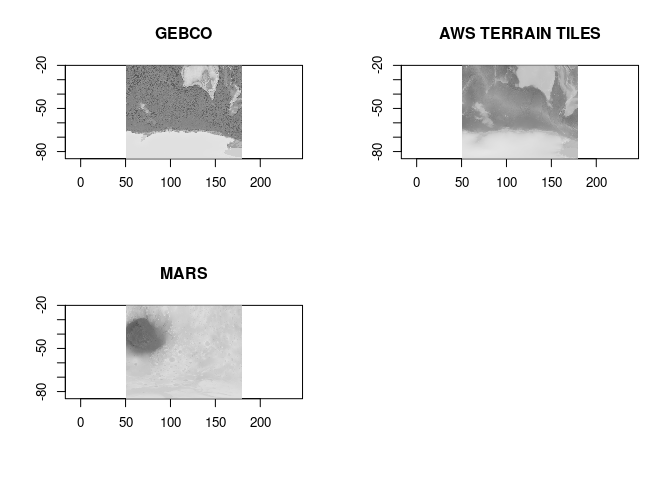
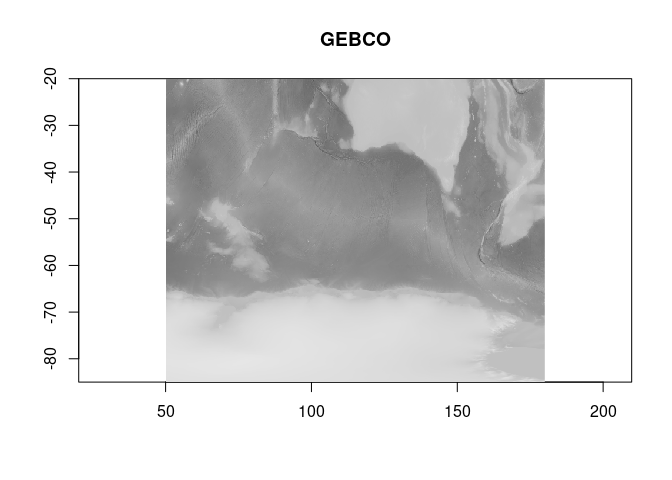
consolidate sources

diff --git a/README.md b/README.md
@@ -31,13 +31,13 @@ matching grids.
 
 ``` r
 library(gdalio)
-
+source(system.file("raster_format/raster_format.codeR", package = "gdalio", mustWork = TRUE))
 ## read as matrix
-gdalio_matrix <- function(dsn, ...) {
-  v <- gdalio_data(dsn, ...)
-  g <- gdalio_get_default_grid()
-  matrix(v[[1]], g$dimension[1])[,g$dimension[2]:1, drop = FALSE]
-}
+# gdalio_matrix <- function(dsn, ...) {
+#   v <- gdalio_data(dsn, ...)
+#   g <- gdalio_get_default_grid()
+#   matrix(v[[1]], g$dimension[1])[,g$dimension[2]:1, drop = FALSE]
+# }
 ## plot the data
 gdalio_plot <- function(x, col = grey.colors(256), ..., asp = 1,  useRaster = TRUE) {
   g <- gdalio_get_default_grid()
@@ -53,47 +53,36 @@ gdalio_set_default_grid(list(extent = c(50, 180, -85, -20),
 
 ## package to configure some transparent online topography sources
 library(topography)
-par(mfrow = c(2, 2))
+
 gebco <- gdalio_matrix(topography_source(x = "gebco"))
 gdalio_plot(gebco, main = "GEBCO", asp = 1.6)
-aws <- gdalio_matrix(topography_source("aws"))
-gdalio_plot(aws, main = "AWS TERRAIN TILES", asp= 1.6)
-## for mars we can't pretend to be earth anymore
-gmars <- gdalio_get_default_grid()
-gmars$projection <- "+proj=longlat +R=3389500"
-gdalio_set_default_grid(gmars)
-mars <- gdalio_matrix(topography_source("mars"))
-gdalio_plot(mars, main = "MARS", asp = 1.6)
-
-
-
-## set default grid to use as target
-gdalio_set_default_grid(list(extent = c(-1, 1, -1, 1) * 5e6,
-                             dimension = as.integer(c(1024, 1024)),
-                             projection = "EPSG:3031"))
-
-par(mfrow = c(2, 2))
 ```
 
 <img src="man/figures/README-example-1.png" width="100%" />
 
 ``` r
-gebco <- gdalio_matrix(topography_source(x = "gebco"))
-gdalio_plot(gebco, main = "GEBCO")
-aws <- gdalio_matrix(topography_source("aws"))
-gdalio_plot(aws, main = "AWS TERRAIN TILES")
-## for mars we can't pretend to be earth anymore
-gmars <- gdalio_get_default_grid()
-gmars$projection <- "+proj=stere +lat_0=-90 +type=crs +R=3389500"
-gdalio_set_default_grid(gmars)
-mars <- gdalio_matrix(topography_source("mars"))
-gdalio_plot(mars, main = "MARS")
-## this isn't really practical because ftp, we'll see
-#rema <- gdalio_matrix(topography_source("rema"))
-#gdalio_plot(rema)
+## for SRTM we want much smaller regions WIP
+
+ll <- cbind(55.7558, 37.6173)[,2:1, drop = FALSE]
+g <- list(extent = c(-1, 1, -1, 1) * 9000, dimension = c(512, 512), projection = sprintf("+proj=laea +lon_0=%f +lat_0=%f", ll[1], ll[2]))
+gdalio_set_default_grid(g)
+srtm <- gdalio_matrix(topography_source(x = "srtm_gl1"))
+gdalio_plot(srtm, main = "srtm_gl1 30m", asp = 1.6)
+
+gdalio_raster(topography_source(x = "srtm_gl1"))
+#> Warning: multiple methods tables found for 'approxNA'
 ```
 
 <img src="man/figures/README-example-2.png" width="100%" />
+
+    #> class      : RasterLayer 
+    #> dimensions : 512, 512, 262144  (nrow, ncol, ncell)
+    #> resolution : 35.15625, 35.15625  (x, y)
+    #> extent     : -9000, 9000, -9000, 9000  (xmin, xmax, ymin, ymax)
+    #> crs        : +proj=laea +lat_0=55.7558 +lon_0=37.6173 +x_0=0 +y_0=0 +datum=WGS84 +units=m +no_defs 
+    #> source     : memory
+    #> names      : layer 
+    #> values     : 100, 223  (min, max)
 
 ------------------------------------------------------------------------
 

diff --git a/NEWS.md b/NEWS.md
@@ -1,3 +1,5 @@
-# topography 0.0.0.9002
+# topography dev
+
+* Ongoing cleanup, have rationalized the sources somewhat. WIP
 
 * Added  OpenTopography sources "SRTM15Plus", "NASADEM", "ID18_Struble_op", "ID18_Struble_hh", "ID18_Struble_be", "SRTM_GL1", "SRTM_GL3". 
